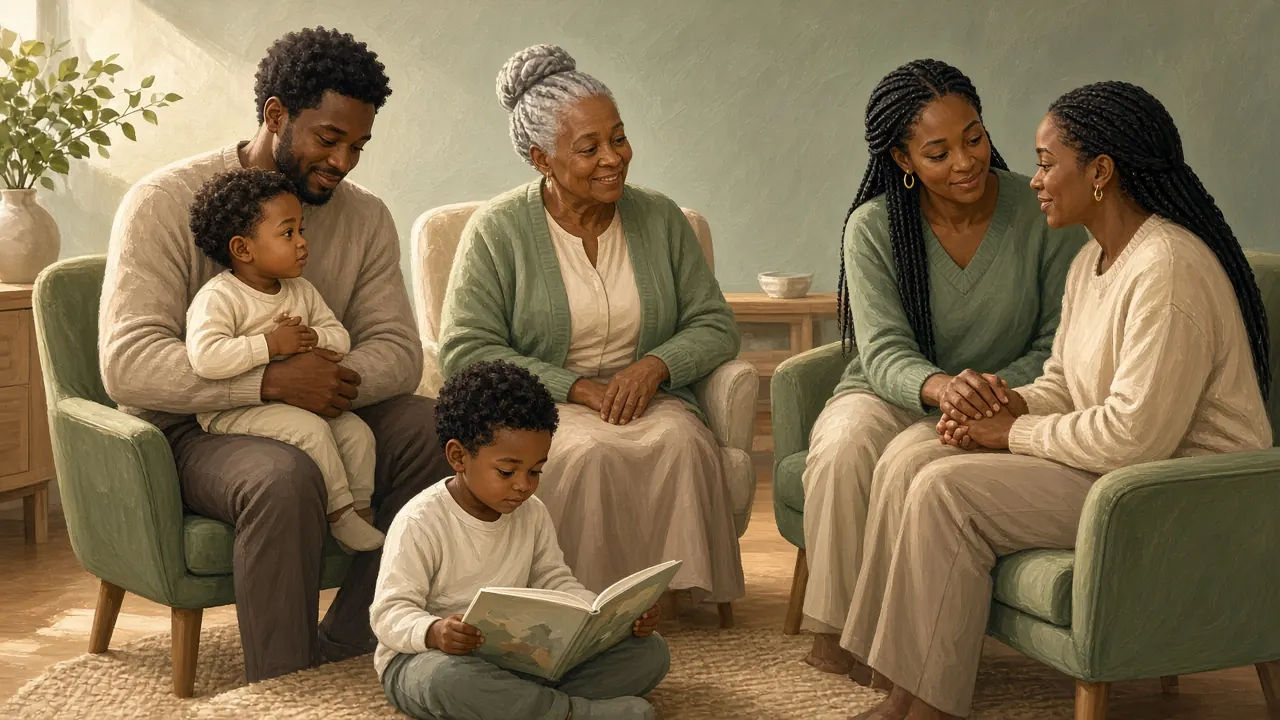
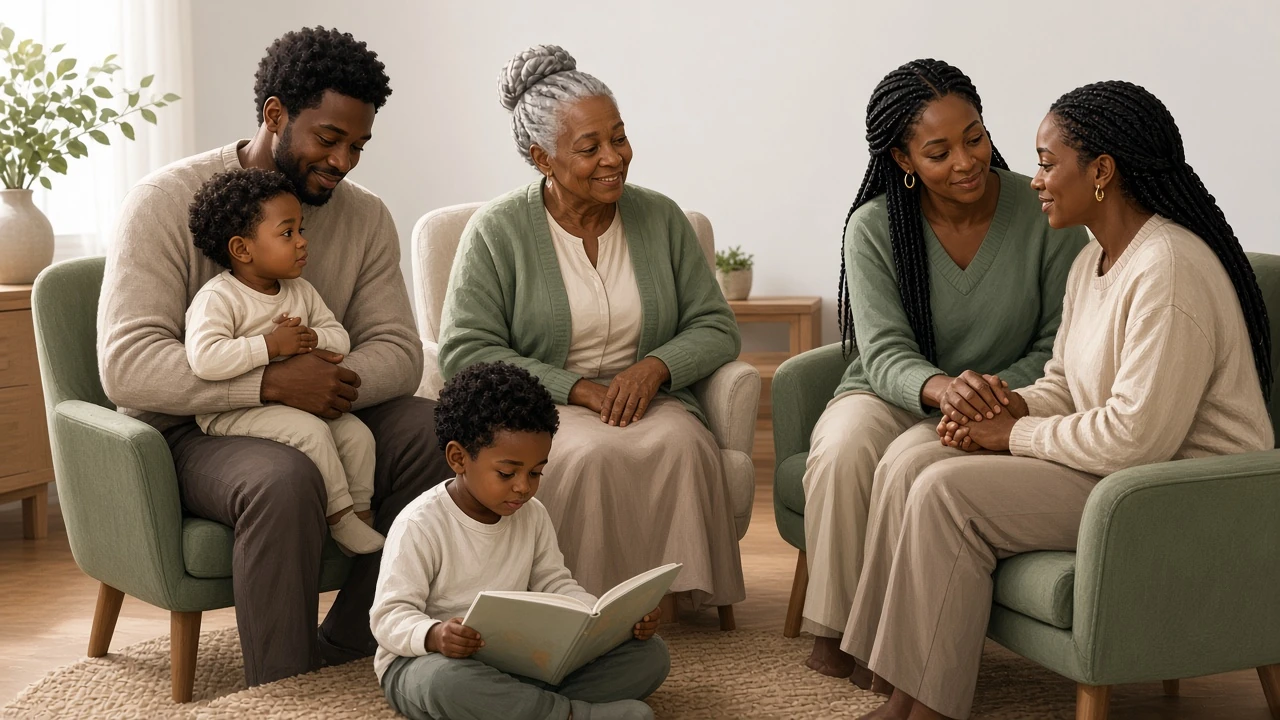
Refresh The Set identity, section themes and realistic scenes; sw v26

diff --git a/styles.css b/styles.css
@@ -1,6 +1,6 @@
-/* Placeholder palette: warm and high-contrast. Content & Culture will refine. */
-:root { --bg:#fbf6ef; --ink:#1d130e; --card:#fff; --brand:#3b1f14; --accent:#b4471d; --gold:#e0a526; --muted:#5b4a40; --line:#e6d9c8; --ok:#1f6b3a;
-  --r:14px; font-size:18px; }
+/* Shared light surfaces and section-specific identities. */
+:root { --bg:#f7f9fb; --ink:#192f40; --card:#fff; --brand:#192f40; --accent:#284b72; --gold:#91b4ff; --muted:#4b6070; --line:#c6d1dc; --ok:#1c6541;
+  --r:4px; font-size:18px; }
 * { box-sizing:border-box; }
 body { margin:0; background:var(--bg); color:var(--ink); font:1rem/1.55 system-ui,-apple-system,"Segoe UI",Roboto,sans-serif; padding-bottom:84px; }
 a { color:var(--accent); } a:focus-visible, button:focus-visible, input:focus-visible, select:focus-visible, textarea:focus-visible { outline:3px solid var(--gold); outline-offset:2px; }
@@ -24,26 +24,26 @@ main { max-width:860px; margin:0 auto; padding:16px; outline:none; }
 a.card.block { display:block; color:var(--ink); text-decoration:none; border-left:6px solid var(--accent); } a.card.block:hover { border-color:var(--gold); }
 .list { display:flex; flex-direction:column; gap:4px; } .list > .navlink { background:var(--card); border:1px solid var(--line); color:var(--ink); }
 .row { display:flex; gap:10px; flex-wrap:wrap; margin:10px 0; }
-.btn { display:inline-flex; align-items:center; justify-content:center; min-height:48px; padding:10px 20px; border-radius:999px; border:2px solid var(--accent); background:var(--accent); color:#fff; font:inherit; font-weight:700; text-decoration:none; cursor:pointer; }
+.btn { display:inline-flex; align-items:center; justify-content:center; min-height:48px; padding:10px 20px; border-radius:4px; border:2px solid var(--accent); background:var(--accent); color:#fff; font:inherit; font-weight:700; text-decoration:none; cursor:pointer; }
 .btn.alt { background:#fff; color:var(--accent); } .btn.small { min-height:44px; padding:6px 14px; font-size:.92rem; }
 .linkbtn { background:none; border:0; color:var(--accent); font:inherit; text-decoration:underline; cursor:pointer; padding:8px 4px; min-height:44px; }
 .form label { display:block; margin:10px 0; font-weight:600; } .form label.check { font-weight:400; display:flex; gap:10px; align-items:center; }
-input, select, textarea { display:block; width:100%; font:inherit; padding:12px; border:2px solid #b9a693; border-radius:10px; background:#fff; color:var(--ink); margin-top:4px; min-height:48px; }
+input, select, textarea { display:block; width:100%; font:inherit; padding:12px; border:2px solid #798da0; border-radius:10px; background:#fff; color:var(--ink); margin-top:4px; min-height:48px; }
 input[type=checkbox] { width:24px; height:24px; min-height:0; margin:0; }
 .filters { display:grid; gap:8px; grid-template-columns:1fr 1fr; } .filters .wide { grid-column:1/-1; } .filters label { font-weight:600; }
 .note { background:#fff4e0; border-left:5px solid var(--gold); padding:10px 12px; border-radius:8px; }
 .protect { font-weight:700; color:var(--brand); }
 .badge { background:var(--ok); color:#fff; padding:3px 10px; border-radius:999px; font-size:.85rem; margin-right:6px; }
-.tag { display:inline-block; background:#efe4d6; color:var(--ink); padding:2px 10px; border-radius:999px; font-size:.82rem; margin-right:6px; } .tag.warn { background:#ffe0d0; }
+.tag { display:inline-block; background:#edf2f7; color:var(--ink); padding:2px 10px; border-radius:999px; font-size:.82rem; margin-right:6px; } .tag.warn { background:#ffe0d0; }
 .meta { color:var(--muted); margin:0; } .contact { font-weight:600; }
 .error { color:#a10f0f; font-weight:700; } .demo-hint { background:#eef; padding:8px; border-radius:8px; }
 .comment { background:var(--card); border:1px solid var(--line); border-radius:var(--r); padding:12px 14px; margin:8px 0; }
 .comment .body { white-space:pre-wrap; overflow-wrap:anywhere; margin:.3em 0; } .comment.muted { opacity:.6; border-style:dashed; }
 .replies { border-left:3px solid var(--accent, #b5651d); margin:10px 0 0 6px; padding-left:12px; }
 .replies .comment { background:transparent; border:none; border-top:1px dashed var(--line); border-radius:0; padding:8px 0 4px; margin:0; }
-.replies .comment:first-child { border-top:none; } .replytag { font-size:.85em; opacity:.75; margin-right:4px; } .actions { display:flex; gap:8px; }
+.replies .comment:first-child { border-top:none; } .replytag { font-size:.85em; opacity:.75; margin-right:4px; } .actions { display:flex; gap:8px; flex-wrap:wrap; }
 .rules li { margin:.4em 0; }
-.tabs { display:flex; gap:6px; flex-wrap:wrap; } .tabs a { padding:10px 12px; border-radius:10px; background:#efe4d6; color:var(--ink); text-decoration:none; } .tabs a[aria-current=page] { background:var(--brand); color:#fff; }
+.tabs { display:flex; gap:6px; flex-wrap:wrap; } .tabs a { padding:10px 12px; border-radius:10px; background:#edf2f7; color:var(--ink); text-decoration:none; } .tabs a[aria-current=page] { background:var(--brand); color:#fff; }
 .code { font-family:ui-monospace,monospace; letter-spacing:.06em; }
 .copybox textarea { font-size:.95rem; }
 .demobar { background:#2d2dbd; color:#fff; text-align:center; padding:6px; font-weight:700; } .demobar .linkbtn { color:#fff; min-height:0; }
@@ -51,7 +51,7 @@ input[type=checkbox] { width:24px; height:24px; min-height:0; margin:0; }
 .toast { position:fixed; left:50%; transform:translateX(-50%); bottom:96px; background:var(--ink); color:#fff; padding:12px 18px; border-radius:12px; z-index:7; max-width:90vw; }
 .foot { text-align:center; padding:20px 16px; color:var(--muted); }
 @media (prefers-reduced-motion:reduce) { * { scroll-behavior:auto !important; } }
-.comment img.photo, .card img.photo { display:block; max-width:min(100%,320px); max-height:320px; height:auto; border-radius:10px; margin:.4em 0; background:#efe4d6; object-fit:cover; }
+.comment img.photo, .card img.photo { display:block; max-width:min(100%,320px); max-height:320px; height:auto; border-radius:10px; margin:.4em 0; background:#edf2f7; object-fit:cover; }
 #photoprev img { display:block; max-width:160px; max-height:160px; border-radius:10px; margin-top:8px; }
 .photopick { margin:8px 0; } .photopick label.btn { display:inline-flex; font-weight:700; margin:0; }
 .status .stats { list-style:none; padding:0; margin:.4em 0; display:grid; grid-template-columns:repeat(auto-fit,minmax(200px,1fr)); gap:4px 12px; }
@@ -61,22 +61,10 @@ a.card.block.corner { border-left-color:var(--ok); background:#f2f8f3; } .note.s
 .sec-head { position:relative; display:flex; align-items:center; gap:12px; color:#fff; background:var(--brand); border-radius:var(--r); padding:18px 16px; margin:4px 0 14px; }
 .sec-head h1 { margin:0; font-size:1.75rem; } .sec-icon { width:36px; height:36px; flex:none; }
 .blockhead { display:flex; align-items:center; gap:8px; } .blockhead .sec-icon { width:26px; height:26px; color:var(--accent); }
-.theme-clinic { --accent:#1f5f56; } .sec-head.theme-clinic { background:#1f5f56; }
-.theme-counsel { --accent:#1b2a4a; } .sec-head.theme-counsel { background:#1b2a4a; border-bottom:4px solid #c9a227; } .sec-head.theme-counsel .sec-icon { color:#e3c463; }
-.theme-counsel h1, .theme-counsel h2 { font-family:Georgia,"Iowan Old Style","Times New Roman",serif; }
-.theme-classroom { --accent:#1e4d34; } .sec-head.theme-classroom { background:#21392c; border:3px dashed rgba(255,255,255,.55); }
-.sec-head.theme-classroom h1 { font-family:"Segoe Print","Bradley Hand","Marker Felt","Chalkboard SE","Comic Sans MS",cursive; letter-spacing:.01em; }
-.theme-block { --accent:#8a4b08; } .sec-head.theme-block { background:radial-gradient(circle at 88% 30%,rgba(242,181,68,.35),transparent 38%),linear-gradient(180deg,#2a2340,#4a3050); }
-.sec-head.theme-block .sec-icon { color:#f2c46a; } .theme-block .listing { box-shadow:inset 4px 0 0 #f2b544; }
-.theme-peace { --accent:#5c4630; } .sec-head.theme-peace { background:#5c4630; }
-.theme-porch { --accent:#8a4b08; } .sec-head.theme-porch { background:linear-gradient(180deg,#6e3d0c,#8a4b08); } .sec-head.theme-porch .sec-icon { color:#ffd27a; }
-.theme-square { --accent:#9a2c1f; } .sec-head.theme-square { background:#8a2a1c; }
 .live { position:absolute; top:10px; right:12px; font-size:.8rem; font-weight:700; display:flex; align-items:center; gap:6px; }
 .live .dot { width:9px; height:9px; border-radius:50%; background:#7ee08f; }
 @media (prefers-reduced-motion:no-preference) { .live .dot { animation:livepulse 2.4s ease-in-out infinite; } }
 @keyframes livepulse { 50% { opacity:.45; } }
-.theme-corner { --accent:#1e4d34; } .sec-head.theme-corner { background:radial-gradient(circle at 92% 50%,transparent 26px,rgba(255,255,255,.14) 27px,rgba(255,255,255,.14) 29px,transparent 30px),#2b4a3a; }
-.theme-corner .note.safety { background:#fff6e6; border-left-color:#1e4d34; }
 /* Home "What's happening" strip: text only, shared cream base */
 .happening h3 { margin:16px 0 6px; } .hap-item { display:block; color:var(--ink); text-decoration:none; padding:10px 0; border-top:1px solid rgba(0,0,0,.08); }
 .hap-item p { margin:4px 0; } .hap-item .tag { font-size:.8em; }
@@ -88,41 +76,55 @@ a.card.block.corner { border-left-color:var(--ok); background:#f2f8f3; } .note.s
 .ticker .dots { display:flex; gap:6px; } .ticker .dot { width:12px; height:12px; padding:0; border-radius:50%; border:1px solid var(--ink); background:transparent; cursor:pointer; }
 .ticker .dot[aria-current="true"] { background:var(--ink); } .ticklist { margin:6px 0; padding-left:1.2em; }
 /* Profile cards + photos */
-.avatar{display:inline-flex;align-items:center;justify-content:center;border-radius:50%;object-fit:cover;background:#e8e2d6;color:#333;font-weight:700;flex:none;vertical-align:middle}
+.avatar{display:inline-flex;align-items:center;justify-content:center;border-radius:50%;object-fit:cover;background:#edf2f7;color:#333;font-weight:700;flex:none;vertical-align:middle}
 .avatar.sm{width:24px;height:24px;font-size:.65rem;margin-right:.35rem}
 .avatar.big{width:72px;height:72px;font-size:1.4rem;margin-right:.75rem}
 .linkbtn.who{display:inline-flex;align-items:center;padding:0;text-decoration:none}
 .profilecard .row{align-items:center}
 .avatarnow{display:flex;align-items:center;gap:.5rem;flex-wrap:wrap}
 .tickmini { margin:6px 0; white-space:nowrap; overflow:hidden; text-overflow:ellipsis; }
-/* ========== v25 visual refresh: Harvest colors + Heritage headings (approved). Self-hosted OFL fonts (see fonts/OFL-*.txt). ========== */
-@font-face { font-family:'Playfair Display'; font-style:normal; font-weight:400 900; font-display:swap; src:url(fonts/playfair-display-latin.woff2) format('woff2'); }
+/* v26: selected Linked S identity, realistic scenes, crisp shared typography. */
 @font-face { font-family:'Source Sans 3'; font-style:normal; font-weight:200 900; font-display:swap; src:url(fonts/source-sans-3-latin.woff2) format('woff2'); }
-:root { --bg:#f5ecd9; --ink:#22180e; --card:#fffdf6; --brand:#4a2a12; --accent:#a14a1c; --muted:#5a4a33; --line:#e3d3b8;
-  --serif:'Playfair Display',Georgia,'Times New Roman',serif; --sans:'Source Sans 3',system-ui,-apple-system,'Segoe UI',Roboto,sans-serif; }
+:root { --sans:'Source Sans 3',system-ui,-apple-system,'Segoe UI',Roboto,sans-serif; --panel:#edf3fa; }
 body { font-family:var(--sans); }
-h1, h2, .brand, .hero h1, .sec-head h1 { font-family:var(--serif); font-weight:700; letter-spacing:.005em; }
-h2 { font-weight:600; }
-.brand em { font-style:italic; color:#f3d9a8; }
-.card, .comment { box-shadow:0 1px 2px rgba(74,42,18,.06),0 4px 14px rgba(74,42,18,.07); }
-.hero { background:#a14a1c; }
-/* Scene art: full width, original aspect ratio (height:auto), never cropped; text follows below. */
-.scene { margin:0 0 12px; border-radius:var(--r); overflow:hidden; background:#e8dcc4; aspect-ratio:16/9; }
+h1,h2,.brand,.hero h1,.sec-head h1 { font-family:var(--sans); font-weight:700; letter-spacing:0; }
+.topbar { background:#fff; color:var(--brand); border-bottom:1px solid var(--line); }
+.brand { display:inline-flex; align-items:center; min-height:48px; max-width:100%; }
+.brand img { display:block; width:200px; max-width:100%; height:auto; }
+#topnav .navlink { color:var(--brand); }
+#topnav .navlink[aria-current=page] { background:#edf3fa; box-shadow:inset 0 -3px #2849e8; }
+.navlink,.tabs a,input,select,textarea,.note,.toast { border-radius:4px; }
+.bottombar { background:#192f40; }
+.bottombar a[aria-current=page] { color:#fff; box-shadow:inset 0 3px #91b4ff; }
+.hero { background:#edf3fa; color:#192f40; border-bottom:3px solid #284b72; }
+.hero .small,.hero a:not(.btn) { color:#284b72; }
+.card,.comment { box-shadow:none; }
+.scene { margin:0 0 12px; border-radius:4px; overflow:hidden; background:#edf2f7; aspect-ratio:16/9; }
 .scene img { display:block; width:100%; height:auto; aspect-ratio:16/9; }
-.scene + .sec-head, .scene + .hero { margin-top:0; }
-/* Harvest section colors (all white-on-color pairs ≥4.5:1, see report). Headers are opaque. */
-.theme-porch { --accent:#a3561a; } .sec-head.theme-porch { background:#a3561a; } .sec-head.theme-porch .sec-icon { color:#fff; }
-.theme-square { --accent:#8c3a20; } .sec-head.theme-square { background:#8c3a20; }
-.theme-block { --accent:#55661f; } .sec-head.theme-block { background:#55661f; } .sec-head.theme-block .sec-icon { color:#fff; } .theme-block .listing { box-shadow:inset 4px 0 0 #55661f; }
-.theme-clinic { --accent:#2c6a5a; } .sec-head.theme-clinic { background:#2c6a5a; }
-.theme-classroom { --accent:#8a5a10; } .sec-head.theme-classroom { background:#8a5a10; border:0; } .sec-head.theme-classroom h1 { font-family:var(--serif); letter-spacing:.005em; }
-.theme-peace { --accent:#35597a; } .sec-head.theme-peace { background:#35597a; }
-.theme-counsel { --accent:#3c3f78; } .sec-head.theme-counsel { background:#3c3f78; border-bottom:0; } .sec-head.theme-counsel .sec-icon { color:#fff; } .theme-counsel h1, .theme-counsel h2 { font-family:var(--serif); }
-/* The Circle: calm. Plain sage, no pattern, no shadow, no motion. */
-.theme-corner { --accent:#5e6e66; } .sec-head.theme-corner { background:#5e6e66; } a.card.block.corner { border-left-color:#5e6e66; background:#f3f5f2; }
-.theme-corner .card, .theme-corner .comment { box-shadow:none; } .theme-corner * { transition:none !important; animation:none !important; }
-@media (prefers-reduced-motion:reduce) { *, *::before, *::after { animation:none !important; transition:none !important; } }
-/* Focus ring readable on cream and on the dark top/bottom bars: dark outline + white halo. */
-a:focus-visible, button:focus-visible, input:focus-visible, select:focus-visible, textarea:focus-visible { outline:3px solid var(--ink); outline-offset:2px; box-shadow:0 0 0 5px #fff; }
-/* Nested replies stay visually attached to their parent card: no card shadow. */
+.scene + .sec-head,.scene + .hero { margin-top:0; }
+.sec-head { background:var(--panel); color:var(--accent); border:0; border-bottom:3px solid var(--accent); }
+.sec-head .sec-icon { color:var(--accent); }
+.sub { color:var(--accent); }
+.note,.theme-corner .note.safety { background:#edf3fa; border-left-color:var(--accent); }
+.tag,.tabs a { background:#edf2f7; }
+.theme-block .listing { box-shadow:none; border-left:4px solid var(--accent); }
+a.card.block:hover { border-color:var(--accent); background:var(--panel); }
+a.card.block.corner { border-left-color:#615184; background:#eeebfa; }
+.theme-corner .card,.theme-corner .comment { box-shadow:none; }
+.theme-corner * { transition:none !important; animation:none !important; }
 .replies .comment { box-shadow:none; }
+.live { position:static; margin-left:auto; flex-shrink:0; }
+.live .dot { background:#1c6541; }
+.sec-head { flex-wrap:wrap; }
+.sec-head h1 { overflow-wrap:anywhere; }
+a:focus-visible,button:focus-visible,input:focus-visible,select:focus-visible,textarea:focus-visible { outline:3px solid #192f40; outline-offset:2px; box-shadow:0 0 0 5px #fff; }
+@media (max-width:380px) { main { padding:12px; } .sec-head { gap:8px; padding:14px 12px; } .sec-head h1 { font-size:1.5rem; } .filters { grid-template-columns:1fr; } .grid { grid-template-columns:minmax(0,1fr); } }
+@media (prefers-reduced-motion:reduce) { *,*::before,*::after { animation:none !important; transition:none !important; } }
+.theme-porch, #view:has(.sec-head.theme-porch) { --panel:#ffe5dd; --accent:#a63828; }
+.theme-square, #view:has(.sec-head.theme-square) { --panel:#fff0b8; --accent:#6f5200; }
+.theme-block, #view:has(.sec-head.theme-block) { --panel:#dcefe4; --accent:#1c6541; }
+.theme-clinic, #view:has(.sec-head.theme-clinic) { --panel:#dfeefa; --accent:#205c86; }
+.theme-classroom, #view:has(.sec-head.theme-classroom) { --panel:#e9eddb; --accent:#4c6134; }
+.theme-corner, #view:has(.sec-head.theme-corner) { --panel:#eeebfa; --accent:#615184; }
+.theme-peace, #view:has(.sec-head.theme-peace) { --panel:#eeeae4; --accent:#4e6461; }
+.theme-counsel, #view:has(.sec-head.theme-counsel) { --panel:#e5e9f5; --accent:#414f7e; }

diff --git a/sw.js b/sw.js
@@ -1,9 +1,9 @@
 // Service worker: keeps the app shell on the phone so it opens fast and shows a friendly page offline.
 // It NEVER stores Supabase data (logins, listings, conversations, photos or photo links): those always go to the internet.
-const CACHE = 'theset-shell-v25'; // change the number after each update so phones get the new files
+const CACHE = 'theset-shell-v26'; // change the number after each update so phones get the new files
 const SHELL = ['./', './index.html', './styles.css', './app.js', './data.js', './copy.js', './config.js',
-  './offline.html', './manifest.webmanifest', './icons/icon.svg', './icons/icon-192.png', './icons/icon-512.png',
-  './fonts/playfair-display-latin.woff2', './fonts/source-sans-3-latin.woff2'];
+  './offline.html', './manifest.webmanifest', './icons/icon.svg', './icons/icon-192.png', './icons/icon-512.png', './icons/logo.svg', './icons/maskable-192.png', './icons/maskable-512.png',
+  './fonts/source-sans-3-latin.woff2'];
 // Scene art (art/*.webp) is not precached: it is saved on first view by the same-site network-first rule below, so offline shows art already seen.
 self.addEventListener('install', e => { e.waitUntil(caches.open(CACHE).then(c => c.addAll(SHELL)).then(() => self.skipWaiting())); });
 self.addEventListener('activate', e => {

diff --git a/index.html b/index.html
@@ -5,7 +5,7 @@
 <meta name="viewport" content="width=device-width, initial-scale=1, viewport-fit=cover">
 <title>The Set</title>
 <meta name="description" content="If you know, you're already here.">
-<meta name="theme-color" content="#4a2a12">
+<meta name="theme-color" content="#192f40">
 <meta name="robots" content="noindex">
 <link rel="manifest" href="manifest.webmanifest">
 <link rel="icon" href="icons/icon.svg" type="image/svg+xml">
@@ -17,7 +17,7 @@
 <body>
 <a class="skip" href="#view">Skip to content</a>
 <div id="demobar" class="demobar" role="status" hidden></div>
-<header class="topbar"><a class="brand" href="#/home">The <em>Set</em></a><nav id="topnav" aria-label="Main"></nav></header>
+<header class="topbar"><a class="brand" href="#/home" aria-label="The Set home"><img src="icons/logo.svg" alt="The Set" width="220" height="56"></a><nav id="topnav" aria-label="Main"></nav></header>
 <main id="view" tabindex="-1"><p>Loading…</p></main>
 <footer class="foot"><p>Made by us, for us. Built with legacy in mind.</p><p class="small"><a href="#/about">About</a> · <a href="#/guidelines">Guidelines</a> · <a href="#/install">Install help</a></p></footer>
 <div id="nudge" class="nudge" role="dialog" aria-label="Add to home screen" hidden></div>
